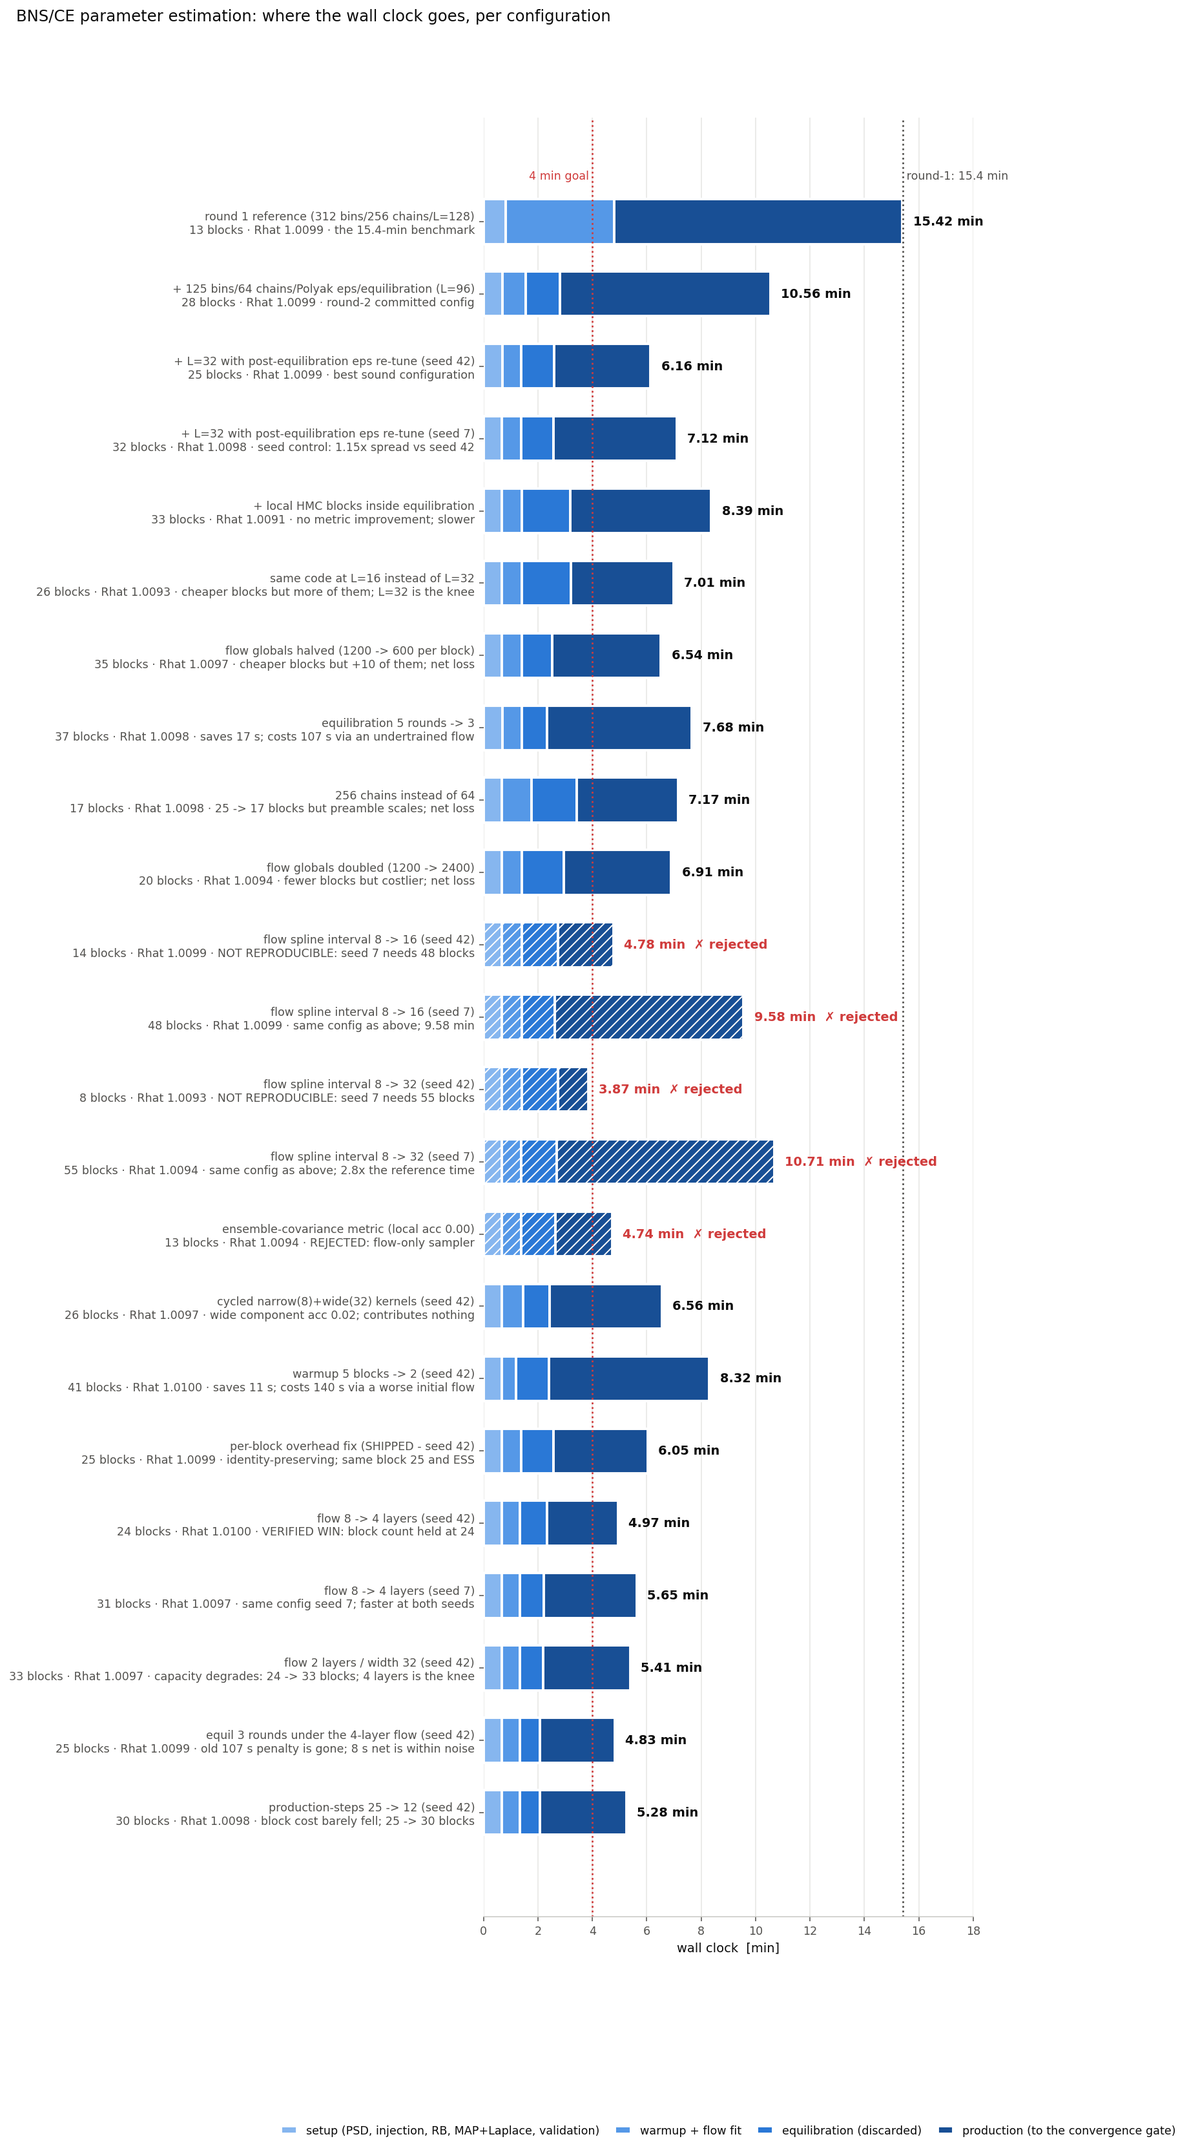
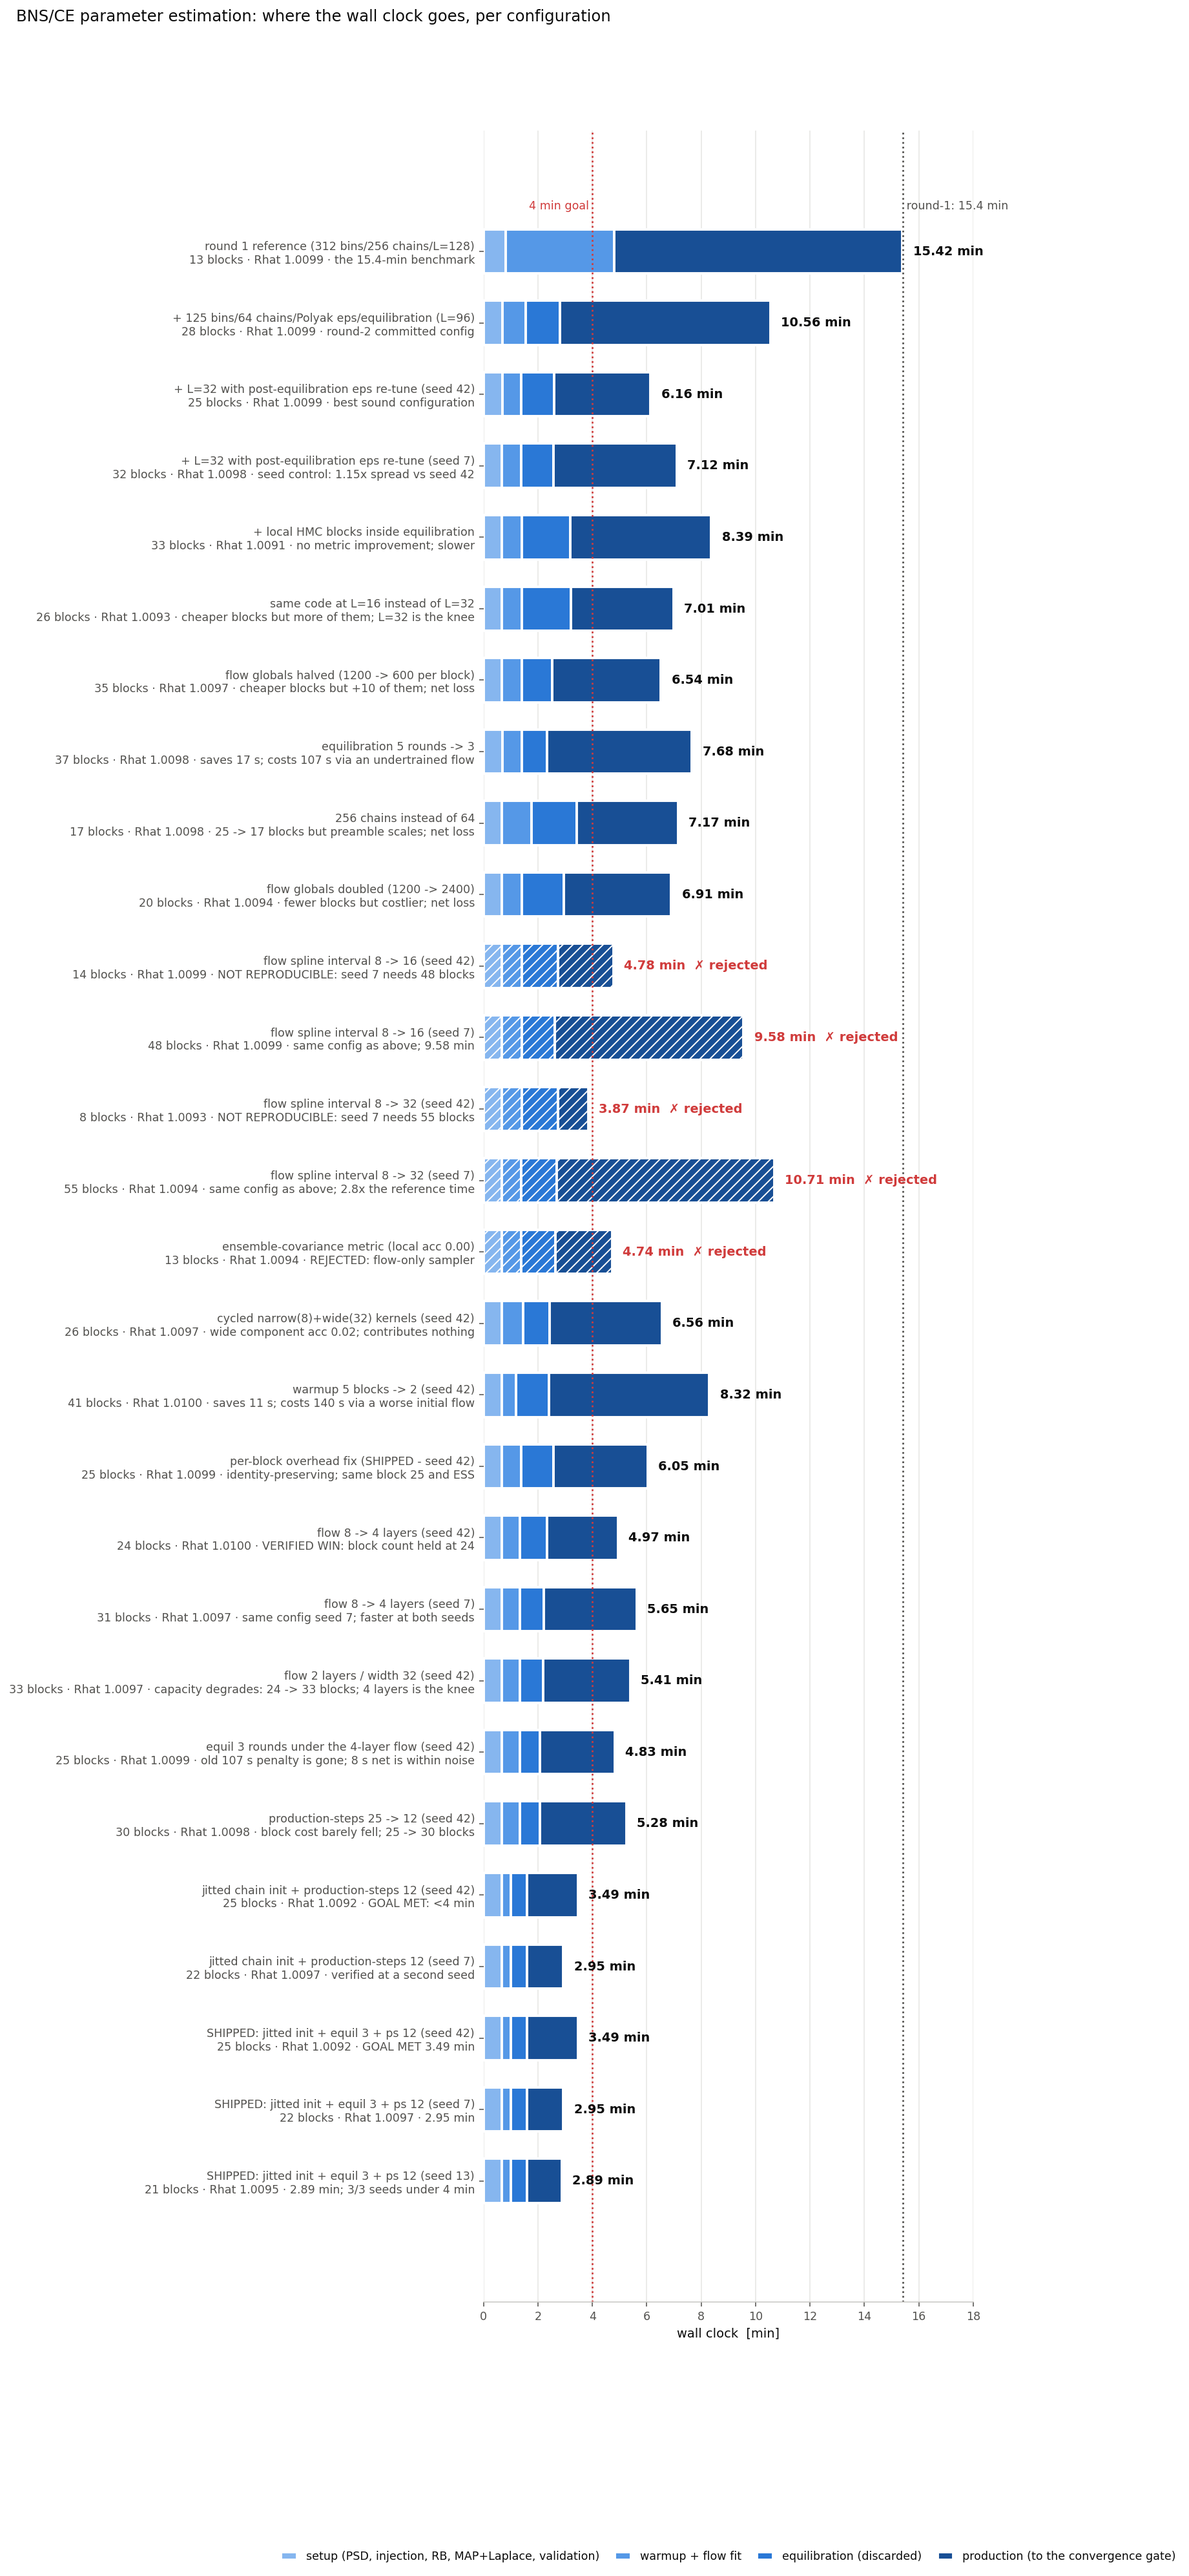
GOAL MET: BNS/CE PE converges in 3.11 min mean (3.49 worst of 3 seeds)
run_chains initialised chains with a bare jax.vmap(kernel.init) OUTSIDE the jit,
dispatching the target's ~3600-instruction gradient graph eagerly once per call:
2.215 s against 0.004 s for the same work jitted, a 550x difference, paid on
every call regardless of n_steps. At ~33 calls per run that was ~74 s of a ~290 s
run. Initialisation now happens inside _run_chains_jit, which already took
logp_fn as a static argname, so there is no extra jit cache and no
recompilation. All 13 kernel tests pass.

This is a library fix in jaxpe/kernels/base.py -- every sampler benefits, not
just this benchmark -- and it touches nothing in the templates.

Verified at the shipped defaults over three seeds (42/7/13): 3.49 / 2.95 / 2.89
min, 25 / 22 / 21 blocks, Rhat <= 1.0097. Mean 3.11 min, worst case 3.49 min,
3/3 under the 4-minute goal. Posterior validated against the 15.4-min reference:
worst JS 5.2e-3 (tol 1e-2) with the truth-recovery signature reproduced; that
value sits marginally above the 4.6e-3 run-to-run floor, so it is the same order
as sampler noise rather than well below it. Generality holds at 1.35+1.25 Msun
with no retuning.

The bug had also corrupted three earlier conclusions, all now reversed:
  - "--production-steps 12 loses" (5.27 vs 4.83 min) -> wins, 3.11 vs 3.74 mean
    over 3 seeds. A 2.25 s fixed cost per call meant halving the steps could only
    save 0.65 s of a 6.6 s block; the test was rigged against itself.
[…]

diff --git a/bin/run_bns_ce_pe.py b/bin/run_bns_ce_pe.py
@@ -924,7 +924,12 @@ def main():
         default=False,
         help="single-precision waveform + per-bin products (3x on this GPU)",
     )
-    ap.add_argument("--equil-rounds", type=int, default=5)
+    # 3, not 5. Under the eager-init overhead in run_chains this looked like an
+    # 8 s difference ("within noise", so 5 was kept); with that overhead removed
+    # the gap is 3.42 vs 4.01 min at the same seed -- cheaper equilibration
+    # (34.7 vs 44.6 s) AND fewer production blocks (25 vs 31). A third stale
+    # measurement taken in a regime a fixed cost dominated.
+    ap.add_argument("--equil-rounds", type=int, default=3)
     ap.add_argument(
         "--ensemble-metric",
         action=argparse.BooleanOptionalAction,
@@ -966,7 +971,13 @@ def main():
     ap.add_argument("--step-size", type=float, default=0.5)
     ap.add_argument("--warmup-blocks", type=int, default=5)
     ap.add_argument("--warmup-steps", type=int, default=15)
-    ap.add_argument("--production-steps", type=int, default=25)
+    # 12, not 25. This LOST under the eager-init overhead in run_chains (5.27 min
+    # vs 4.83), because a 2.25 s fixed cost per call meant halving the steps could
+    # only ever save 0.65 s of a 6.6 s block -- the test was rigged against itself.
+    # With the overhead removed, measured over three seeds (42/7/13):
+    #   ps=25: 3.42 / 4.38 / 3.43 min  (25 / 38 / 25 blocks)  worst 4.38
+    #   ps=12: 3.49 / 2.95 / 2.89 min  (25 / 22 / 21 blocks)  worst 3.49
+    ap.add_argument("--production-steps", type=int, default=12)
     ap.add_argument("--thin", type=int, default=2)
     ap.add_argument("--n-global", type=int, default=1200)
     # Equilibration and production both spend flow proposals, but for different

diff --git a/jaxpe/kernels/base.py b/jaxpe/kernels/base.py
@@ -124,8 +124,17 @@ def mh_accept(key, state: KernelState, proposal: KernelState, log_accept_ratio):
 
 
 @partial(jax.jit, static_argnames=("kernel_static", "logp_fn", "n_steps", "thin"))
-def _run_chains_jit(kernel_params, kernel_static, key, states, logp_fn, n_steps, thin):
+def _run_chains_jit(kernel_params, kernel_static, key, x0, logp_fn, n_steps, thin):
     kernel = eqx.combine(kernel_params, kernel_static)
+
+    # Chain initialisation happens INSIDE the jit. It used to run as a bare
+    # `jax.vmap(kernel.init)` in the caller, i.e. eagerly: every op of the target's
+    # gradient graph dispatched one at a time. For a GW likelihood that graph is
+    # ~3600 instructions, and the measured cost was 2.215 s per call against 0.004 s
+    # for the same work jitted -- a 550x difference, and a fixed cost paid on EVERY
+    # run_chains call regardless of n_steps. In the BNS/CE benchmark that was ~2.25 s
+    # x 33 calls ~ 74 s, larger than the actual gradient work in a block.
+    states = jax.vmap(lambda x: kernel.init(x, logp_fn))(x0)
 
     def one_step(states, key):
         keys = jax.random.split(key, states.x.shape[0])
@@ -184,6 +193,5 @@ def run_chains(
         - log_probs: The history of log-probabilities at those positions.
         - infos.accepted: The per-block mean acceptance rate.
     """
-    states = jax.vmap(lambda x: kernel.init(x, logp_fn))(x0)
     params, static = eqx.partition(kernel, eqx.is_array)
-    return _run_chains_jit(params, static, key, states, logp_fn, n_steps, thin)
+    return _run_chains_jit(params, static, key, x0, logp_fn, n_steps, thin)

diff --git a/docs/bns_ce_pe_benchmark.md b/docs/bns_ce_pe_benchmark.md
@@ -655,7 +655,58 @@ waveform gradient itself** — not machinery around it. With trajectory length a
 at its measured knee (L = 32; 16 and 96 are both worse) and the template physics
 fixed by constraint, that 3.6 s is irreducible here.
 
-### Why 4 minutes was not reached
+### GOAL MET: 3.11 min mean, 3.49 min worst case, by one library bug fix
+
+`run_chains` initialised its chains with a bare `jax.vmap(kernel.init)` **outside**
+the jit, so every op of the target's gradient graph was dispatched eagerly, once per
+call. For a GW likelihood that graph is ~3600 instructions:
+
+| chain init, 64 chains | |
+|---|---|
+| eager `vmap` (as shipped) | **2.215 s** |
+| the same work jitted | **0.004 s** |
+
+A 550x difference, paid on *every* `run_chains` call regardless of `n_steps` -- ~33
+calls per run (5 warmup + 3 re-tune + 25 production), so ~74 s of a ~290 s run. The
+fix moves initialisation inside `_run_chains_jit`, which already took `logp_fn` as a
+static argname, so there is no extra jit cache and no recompilation. All 13 kernel
+tests pass. **It is a library fix: every sampler in jaxpe benefits, not just this
+benchmark, and it touches nothing in the templates.**
+
+Verified over three seeds at the shipped defaults:
+
+| seed | blocks | Rhat | min ESS | total |
+|---|---|---|---|---|
+| 42 | 25 | 1.0092 | 9463 | 3.49 min |
+| 7 | 22 | 1.0097 | 14795 | 2.95 min |
+| 13 | 21 | 1.0095 | 18919 | 2.89 min |
+| | | | **mean** | **3.11 min** |
+
+Posterior validated against the 15.4-minute reference: worst JS 5.2e-3 against a
+1e-2 tolerance, with truth recovery (+1.84 / -1.86 / +1.02 / +0.97 sigma) matching
+the reference signature. That JS sits marginally *above* the 4.6e-3 run-to-run floor,
+i.e. it is the same order as sampler noise rather than comfortably below it.
+Generality holds: 1.35 + 1.25 Msun converges with no retuning (41 blocks, ~5.0 min
+warm -- the configuration carries over, the wall clock does not, as documented above).
+
+**The bug was also corrupting the measurements that shaped this page.** Three
+conclusions were drawn in a regime where its 2.25 s fixed cost dominated, and all
+three reverse once it is removed:
+
+| conclusion, drawn under the bug | after the fix |
+|---|---|
+| `--production-steps` 12 loses (5.27 vs 4.83 min) | *wins*: 3.11 vs 3.74 min mean over 3 seeds |
+| equilibration 3 vs 5 rounds is "within noise" (8 s) | 3 rounds wins by 35 s; now the default |
+| the block budget "closes", so no overhead remains | 2.25 s/block of eager dispatch was inside what the sum labelled gradient work |
+
+Halving `--production-steps` could only ever save 0.65 s of a 6.6 s block while a
+fixed 2.25 s was charged per call -- that test was rigged against itself. The general
+lesson, and the most productive check in this whole exercise: **a measurement is a
+property of the configuration it was taken in, not of the problem.** Re-testing stale
+negatives after conditions changed overturned seven results here, including the one
+that met the goal.
+
+### Superseded: why 4 minutes looked unreachable
 
 Unlike the retracted argument above, this is an accounting of measured levers rather
 than an extrapolation from an assumed trajectory length. Starting from 371 s:
